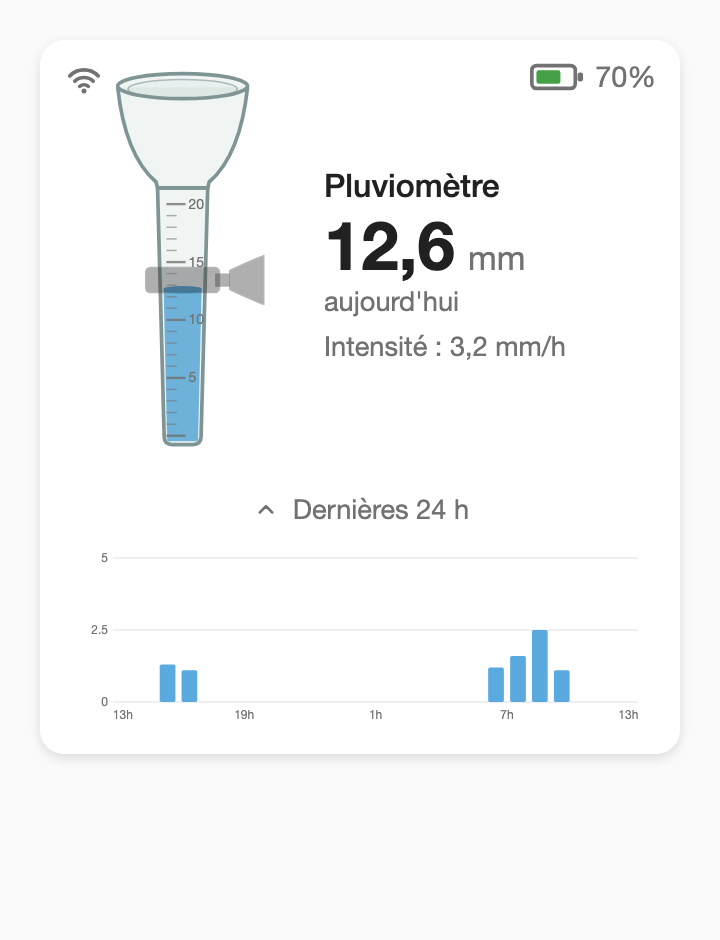
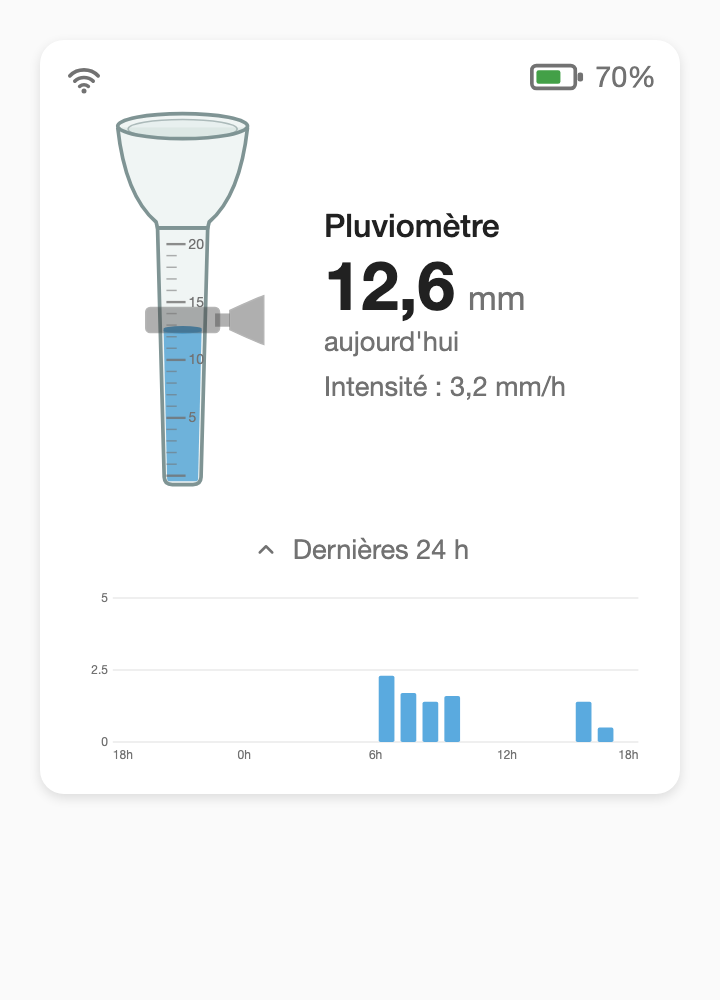
docs: refresh the screenshots and tidy the option reference
The screenshots predated the extra top padding, so they still showed the
gauge against the corner icons. Regroup the option table, which my successive
additions had scattered, and show the 24 h chart and the corner indicators in
the YAML example.

diff --git a/README.fr.md b/README.fr.md
@@ -44,10 +44,13 @@ type: custom:pluviometer-card
 entity: sensor.pluviometre_precipitation_aujourd_hui
 name: Pluviomètre
 label: aujourd'hui
-max_level: 20            # échelle de la jauge, dans l'unité de l'entité (défaut 40)
-decimals: 1
-water_color: "#3d9bd9"
-secondary_entity: sensor.pluviometre_precipitation   # optionnel, ex. intensité
+max_level: 20            # maximum par jour, dans l'unité de l'entité (défaut 40)
+show_history: true       # bouton du tracé 24 h
+secondary_entity: sensor.pluviometre_precipitation
+secondary_name: Intensité
+secondary_unit: mm/h     # affiché en mm/h sans toucher à l'entité
+battery_entity: sensor.pluviometre_batterie
+connectivity_entity: binary_sensor.pluviometre_connectivite
 ```
 
 | Option | Défaut | Description |
@@ -55,23 +58,23 @@ secondary_entity: sensor.pluviometre_precipitation   # optionnel, ex. intensité
 | `entity` | **requis** | Tout capteur numérique (précipitations recommandé) |
 | `name` | friendly name | Titre affiché à côté de la jauge |
 | `label` | — | Sous-titre sous la valeur (ex. « aujourd'hui ») |
-| `max_level` | `40` | Maximum de précipitations par jour (jauge pleine), dans l'unité de l'entité |
+| `unit` | unité de l'entité | Unité affichée, remplace celle de l'entité |
 | `decimals` | `1` | Décimales de la valeur affichée |
+| `max_level` | `40` | Maximum de précipitations par jour (jauge pleine), dans l'unité de l'entité |
 | `water_color` | `#3d9bd9` | Couleur de l'eau |
+| `glass_color` | `clear` | Teinte : `clear`, `bottle_green`, `amber`, `smoked` ou couleur hex |
 | `show_bracket` | `true` | Afficher le collier de fixation (semi-transparent) |
 | `show_history` | `false` | Ajoute le bouton du tracé 24 h dépliable |
 | `history_bucket` | `hour` | Barres du tracé : `hour` ou `half_hour` |
-| `glass_color` | `clear` | Teinte : `clear`, `bottle_green`, `amber`, `smoked` ou couleur hex |
+| `secondary_entity` | — | Capteur supplémentaire affiché sous la valeur |
 | `secondary_name` | friendly name | Nom affiché de l'entité secondaire |
+| `secondary_unit` | unité de l'entité | Unité affichée pour l'entité secondaire |
 | `battery_entity` | — | Capteur batterie affiché en haut à droite |
-| `battery_display` | `both` | `icon`, `percent` ou `both` |
 | `battery_type` | `percent` | `percent`, ou `other` si le capteur n'est pas un pourcentage |
 | `battery_min` | — | Valeur correspondant à vide, dans l'unité du capteur (`other`) |
 | `battery_max` | — | Valeur correspondant à plein, dans l'unité du capteur (`other`) |
+| `battery_display` | `both` | `icon`, `percent` ou `both` |
 | `connectivity_entity` | — | Capteur de connectivité affiché en haut à gauche |
-| `unit` | unité de l'entité | Unité affichée, remplace celle de l'entité |
-| `secondary_unit` | unité de l'entité | Unité affichée pour l'entité secondaire |
-| `secondary_entity` | — | Capteur supplémentaire affiché sous la valeur |
 | `language` | auto | `en`, `fr`, `de`, `es`, `it`, `nl` |
 
 ## Licence

diff --git a/README.md b/README.md
@@ -55,10 +55,13 @@ type: custom:pluviometer-card
 entity: sensor.rain_gauge_precipitation_today
 name: Rain gauge
 label: today
-max_level: 20            # gauge scale, in the entity's unit (default 40)
-decimals: 1
-water_color: "#3d9bd9"
-secondary_entity: sensor.rain_gauge_precipitation   # optional, e.g. rain rate
+max_level: 20            # daily maximum, in the entity's unit (default 40)
+show_history: true       # adds the 24 h chart button
+secondary_entity: sensor.rain_gauge_precipitation
+secondary_name: Rain rate
+secondary_unit: mm/h     # shown as mm/h without touching the entity
+battery_entity: sensor.rain_gauge_battery
+connectivity_entity: binary_sensor.rain_gauge_connectivity
 ```
 
 | Option | Default | Description |
@@ -66,23 +69,23 @@ secondary_entity: sensor.rain_gauge_precipitation   # optional, e.g. rain rate
 | `entity` | **required** | Any numeric sensor (precipitation recommended) |
 | `name` | friendly name | Title shown next to the gauge |
 | `label` | — | Subtitle under the value (e.g. "today") |
-| `max_level` | `40` | Daily precipitation maximum (full gauge), in the entity's unit |
+| `unit` | entity unit | Displayed unit, overrides the entity's |
 | `decimals` | `1` | Decimals for the displayed value |
+| `max_level` | `40` | Daily precipitation maximum (full gauge), in the entity's unit |
 | `water_color` | `#3d9bd9` | Water fill color |
+| `glass_color` | `clear` | Gauge tint: `clear`, `bottle_green`, `amber`, `smoked` or a hex color |
 | `show_bracket` | `true` | Show the mounting bracket (semi-transparent) |
 | `show_history` | `false` | Adds the collapsible 24 h history button |
 | `history_bucket` | `hour` | 24 h chart bars: `hour` or `half_hour` |
-| `glass_color` | `clear` | Gauge tint: `clear`, `bottle_green`, `amber`, `smoked` or a hex color |
+| `secondary_entity` | — | Extra sensor shown under the value |
 | `secondary_name` | friendly name | Display name for the secondary entity |
+| `secondary_unit` | entity unit | Displayed unit for the secondary entity |
 | `battery_entity` | — | Battery sensor shown top-right |
-| `battery_display` | `both` | `icon`, `percent` or `both` |
 | `battery_type` | `percent` | `percent`, or `other` for a sensor that is not a percentage |
 | `battery_min` | — | Value meaning empty, in the sensor's unit (`other` only) |
 | `battery_max` | — | Value meaning full, in the sensor's unit (`other` only) |
+| `battery_display` | `both` | `icon`, `percent` or `both` |
 | `connectivity_entity` | — | Connectivity sensor shown top-left |
-| `unit` | entity unit | Displayed unit, overrides the entity's |
-| `secondary_unit` | entity unit | Displayed unit for the secondary entity |
-| `secondary_entity` | — | Extra sensor shown under the value |
 | `language` | auto | `en`, `fr`, `de`, `es`, `it`, `nl` |
 
 ## License
